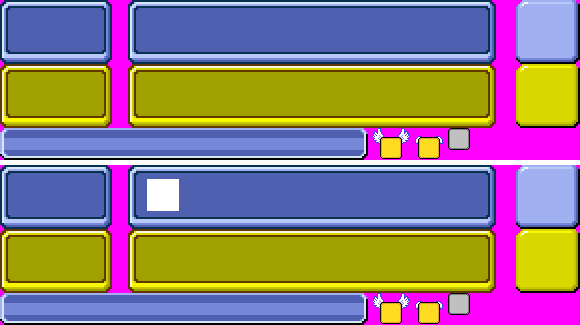
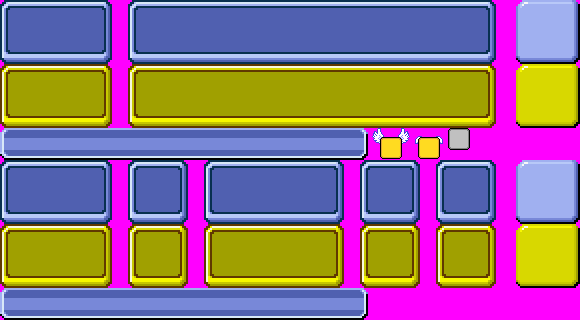
1) Fixed bug where backgroundmusic was using [6] which was out of bounds 2) Fixed bug where you could use a stored item inside a bonus house 3) Finished world scoreboard

diff --git a/_src/uicontrol.cpp b/_src/uicontrol.cpp
@@ -2957,16 +2957,18 @@ MI_TournamentScoreboard::MI_TournamentScoreboard(gfxSprite * spr_background, sho
 	sprBackground = spr_background;
 	fCreated = false;
 
+	worldScore = NULL;
+	worldScoreModifier = NULL;
+
 	for(short iTeam = 0; iTeam < 4; iTeam++)
 	{
 		tourScores[iTeam] = NULL;
 		
-		worldScoreModifier[iTeam] = NULL;
-
-		for(short iBonus = 0; iBonus < 5; iBonus++)
+		for(short iBonus = 0; iBonus < MAX_WORLD_BONUSES_AWARDED; iBonus++)
 			worldBonus[iTeam][iBonus] = NULL;
 
 		worldPlace[iTeam] = NULL;
+		worldPointsBackground[iTeam] = NULL;
 	}
 
 	for(short iGame = 0; iGame < 10; iGame++)
@@ -3016,7 +3018,7 @@ void MI_TournamentScoreboard::FreeScoreboard()
 			worldPlace[iTeam] = NULL;
 		}
 
-		for(short iBonus = 0; iBonus < 5; iBonus++)
+		for(short iBonus = 0; iBonus < MAX_WORLD_BONUSES_AWARDED; iBonus++)
 		{
 			if(worldBonus[iTeam][iBonus])
 			{
@@ -3025,10 +3027,10 @@ void MI_TournamentScoreboard::FreeScoreboard()
 			}
 		}
 
-		if(worldScoreModifier[iTeam])
+		if(worldPointsBackground[iTeam])
 		{
-			delete worldScoreModifier[iTeam];
-			worldScoreModifier[iTeam] = NULL;
+			delete worldPointsBackground[iTeam];
+			worldPointsBackground[iTeam] = NULL;
 		}
 	}
 
@@ -3052,8 +3054,19 @@ void MI_TournamentScoreboard::FreeScoreboard()
 		delete miTourPointBar;
 		miTourPointBar = NULL;
 	}
-	
 
+	if(worldScore)
+	{
+		delete worldScore;
+		worldScore = NULL;
+	}
+
+	if(worldScoreModifier)
+	{
+		delete worldScoreModifier;
+		worldScoreModifier = NULL;
+	}
+	
 	delete [] miPlayerImages;
 	delete [] miIconImages;
 }
@@ -3073,6 +3086,9 @@ void MI_TournamentScoreboard::Update()
 		{
 			miPlayerImages[iTeam][iPlayer]->Update();
 		}
+
+		if(worldPointsBackground[iTeam])
+			worldPointsBackground[iTeam]->Update();
 	}
 
 	if(game_values.matchtype == MATCH_TYPE_TOUR)
@@ -3179,15 +3195,22 @@ void MI_TournamentScoreboard::Draw()
 	{
 		for(short iTeam = 0; iTeam < iNumTeams; iTeam++)
 		{
+			worldPointsBackground[iTeam]->Draw();
+		}
+
+		for(short iTeam = 0; iTeam < iNumTeams; iTeam++)
+		{
 			tourScores[iTeam]->Draw();
-			worldScoreModifier[iTeam]->Draw();
 			worldPlace[iTeam]->Draw();
 
-			for(short iBonus = 0; iBonus < 5; iBonus++)
+			for(short iBonus = 0; iBonus < MAX_WORLD_BONUSES_AWARDED; iBonus++)
 			{
 				worldBonus[iTeam][iBonus]->Draw();
 			}
 		}
+
+		worldScoreModifier->Draw();
+		worldScore->Draw();
 	}
 }
 
@@ -3233,7 +3256,7 @@ void MI_TournamentScoreboard::CreateScoreboard(short numTeams, short numGames, g
 		if(fTour)
 			iTeamY += 28; //shift down 28 pxls for extra tour points bar
 
-		miTeamImages[iTeam] = new MI_Image(sprBackground, ix - (fNotTournament ? 40 : 0), iTeamY, 0, 0, fNotTournament ? 580 : 500, 64, 1, 2, 0);
+		miTeamImages[iTeam] = new MI_Image(sprBackground, ix - (fNotTournament ? 40 : 0), iTeamY, 0, game_values.matchtype == MATCH_TYPE_WORLD ? 160 : 0, fNotTournament ? 580 : 500, 64, 1, 2, 0);
 		miIconImages[iTeam] = new MI_Image * [iNumGames];
 		miPlayerImages[iTeam] = new MI_Image * [iTeamCounts[iTeam]];
 
@@ -3258,17 +3281,21 @@ void MI_TournamentScoreboard::CreateScoreboard(short numTeams, short numGames, g
 
 		if(game_values.matchtype == MATCH_TYPE_WORLD)
 		{
-			worldScoreModifier[iTeam] = new MI_Image(&spr_worlditems, ix + 400, iTeamY + 16, 0, 0, 32, 32, 1, 1, 0);
-			worldScoreModifier[iTeam]->Show(false);
+			worldPointsBackground[iTeam] = new MI_Image(sprBackground, ix + 476, iTeamY, 516, 160, 64, 64, 1, 2, 0);
+			worldPlace[iTeam] = new MI_Image(sprIcons, ix + 102, iTeamY + 14, 0, 0, 32, 32, 4, 1, 8);
 
-			worldPlace[iTeam] = new MI_Image(sprIcons, ix + 110, iTeamY + 16, 0, 0, 32, 32, 4, 1, 8);
-
-			for(short iBonus = 0; iBonus < 5; iBonus++)
+			for(short iBonus = 0; iBonus < MAX_WORLD_BONUSES_AWARDED; iBonus++)
 			{
-				worldBonus[iTeam][iBonus] = new MI_Image(&spr_worlditems, ix + 200 + 40 * iBonus, iTeamY + 16, 0, 0, 32, 32, 1, 1, 0);
+				worldBonus[iTeam][iBonus] = new MI_Image(&spr_worlditems, ix + 180 + 38 * iBonus, iTeamY + 14, 0, 0, 32, 32, 1, 1, 0);
 				worldBonus[iTeam][iBonus]->Show(false);
 			}
 		}
+	}
+
+	if(game_values.matchtype == MATCH_TYPE_WORLD)
+	{
+		worldScoreModifier = new MI_Image(&spr_worlditems, 0, 0, 0, 0, 32, 32, 1, 1, 0);
+		worldScore = new MI_ScoreText(0, 0);
 	}
 
 	if(fTour)
@@ -3297,6 +3324,8 @@ void MI_TournamentScoreboard::RefreshWorldScores(short gameWinner)
 	iGameWinner = gameWinner;
 	DetermineScoreboardWinners();
 
+	TourStop * tourStop = game_values.tourstops[game_values.tourstopcurrent];
+
 	for(short iTeam = 0; iTeam < iNumTeams; iTeam++)
 	{
 		short iTeamY = GetYFromPlace(game_values.tournament_scores[iTeam].wins);
@@ -3304,6 +3333,7 @@ void MI_TournamentScoreboard::RefreshWorldScores(short gameWinner)
 		float dSpacing = GetIconSpacing();
 
 		miTeamImages[iTeam]->SetPosition(ix - 40, iTeamY);
+		worldPointsBackground[iTeam]->SetPosition(ix + 476, iTeamY);
 
 		for(short iPlayer = 0; iPlayer < iTeamCounts[iTeam]; iPlayer++)
 		{
@@ -3313,17 +3343,37 @@ void MI_TournamentScoreboard::RefreshWorldScores(short gameWinner)
 		tourScores[iTeam]->SetPosition(ix + 508, iTeamY + 24);
 		tourScores[iTeam]->SetScore(game_values.tournament_scores[iTeam].total);
 
-		if(game_values.worldpointsbonus >= 0 && iGameWinner == game_values.tournament_scores[iTeam].wins)
+		if(iGameWinner == -1)
 		{
-			worldScoreModifier[iTeam]->Show(true);
-			worldScoreModifier[iTeam]->SetImage((game_values.worldpointsbonus + 9) << 5, 0, 32, 32);
+			worldScore->Show(false);
+			worldScoreModifier->Show(false);
+		}
+
+		if(iGameWinner == iTeam)
+		{
+			worldScore->SetPosition(ix + 350, iTeamY + 24);
+			worldScore->SetScore(tourStop->iPoints);
+			worldScore->Show(true);
+
+			miTeamImages[iTeam]->SetImage(0, 160, 496, 64);
+
+			if(game_values.worldpointsbonus >= 0)
+			{
+				worldScoreModifier->SetImage((game_values.worldpointsbonus + 9) << 5, 0, 32, 32);
+				worldScoreModifier->SetPosition(ix + 410, iTeamY + 14);
+				worldScoreModifier->Show(true);
+			}
+			else
+			{
+				worldScoreModifier->Show(false);
+			}
 		}
 		else
 		{
-			worldScoreModifier[iTeam]->Show(false);
+			miTeamImages[iTeam]->SetImage(0, 160, 344, 64);
 		}
 
-		worldPlace[iTeam]->SetPosition(ix + 110, iTeamY + 16);
+		worldPlace[iTeam]->SetPosition(ix + 102, iTeamY + 14);
 		worldPlace[iTeam]->SetImage(0, score[iTeam]->place << 5, 32, 32);
 		worldPlace[iTeam]->Show(gameWinner >= 0);
 	}
@@ -3332,7 +3382,6 @@ void MI_TournamentScoreboard::RefreshWorldScores(short gameWinner)
 	
 	if(gameWinner >= 0)
 	{
-		TourStop * tourStop = game_values.tourstops[game_values.tourstopcurrent];
 		for(short iBonus = 0; iBonus < tourStop->iNumBonuses; iBonus++)
 		{
 			WorldStageBonus * bonus = &tourStop->wsbBonuses[iBonus];
@@ -3345,22 +3394,23 @@ void MI_TournamentScoreboard::RefreshWorldScores(short gameWinner)
 					{
 						short iDisplayPosition = game_values.tournament_scores[iTeam].wins;
 
-						worldBonus[iDisplayPosition][iBonusCounts[iDisplayPosition]]->Show(true);
-						worldBonus[iDisplayPosition][iBonusCounts[iDisplayPosition]]->SetImageSource(bonus->iBonus < NUM_POWERUPS ? &spr_storedpoweruplarge : &spr_worlditems);
-						worldBonus[iDisplayPosition][iBonusCounts[iDisplayPosition]]->SetImage((bonus->iBonus < NUM_POWERUPS ? bonus->iBonus : bonus->iBonus - NUM_POWERUPS) << 5, 0, 32, 32);
+						if(iBonusCounts[iDisplayPosition] < MAX_WORLD_BONUSES_AWARDED)
+						{
+							worldBonus[iDisplayPosition][iBonusCounts[iDisplayPosition]]->Show(true);
+							worldBonus[iDisplayPosition][iBonusCounts[iDisplayPosition]]->SetImageSource(bonus->iBonus < NUM_POWERUPS ? &spr_storedpoweruplarge : &spr_worlditems);
+							worldBonus[iDisplayPosition][iBonusCounts[iDisplayPosition]]->SetImage((bonus->iBonus < NUM_POWERUPS ? bonus->iBonus : bonus->iBonus - NUM_POWERUPS) << 5, 0, 32, 32);
 
-						iBonusCounts[iDisplayPosition]++;
-
-						break;
+							iBonusCounts[iDisplayPosition]++;
+						}
 					}
-				}			
+				}
 			}
 		}
 	}
 
 	for(short iTeam = 0; iTeam < iNumTeams;  iTeam++)
 	{
-		for(short iBonus = iBonusCounts[iTeam]; iBonus < 5; iBonus++)
+		for(short iBonus = iBonusCounts[iTeam]; iBonus < MAX_WORLD_BONUSES_AWARDED; iBonus++)
 		{
 			worldBonus[iTeam][iBonus]->Show(false);
 		}
@@ -3449,7 +3499,10 @@ void MI_TournamentScoreboard::DetermineScoreboardWinners()
 
 		//Flash the background of the winning teams
 		for(short iTeam = 0; iTeam < iNumWinningTeams; iTeam++)
+		{
 			miTeamImages[iWinningTeams[iTeam]]->SetAnimationSpeed(20);
+			worldPointsBackground[iWinningTeams[iTeam]]->SetAnimationSpeed(20);
+		}
 	}
 }
 
@@ -3464,6 +3517,7 @@ void MI_TournamentScoreboard::RefreshTournamentScores(short gameWinner)
 	{
 		iTournamentWinner = iGameWinner;
 		miTeamImages[iTournamentWinner]->SetAnimationSpeed(20);
+		worldPointsBackground[iTournamentWinner]->SetAnimationSpeed(20);
 	}
 
 	for(short iTeam = 0; iTeam < iNumTeams; iTeam++)
@@ -4031,6 +4085,9 @@ MI_ScoreText::MI_ScoreText(short x, short y) :
 
 void MI_ScoreText::Draw()
 {
+	if(!fShow)
+		return;
+
 	spr_scoretext.draw(iDigitRightDstX, iy, iDigitRightSrcX, 0, 16, 16);
 	
 	if(iDigitLeftSrcX > 0)

diff --git a/_src/menu.cpp b/_src/menu.cpp
@@ -2321,7 +2321,7 @@ void Menu::RunMenu()
 			if(game_values.matchtype == MATCH_TYPE_SINGLE_GAME)
 				backgroundmusic[2].play(false, false);
 			else if(game_values.matchtype == MATCH_TYPE_WORLD)
-				backgroundmusic[6].play(false, false);
+				backgroundmusic[5].play(false, false);
 			else
 				backgroundmusic[3].play(false, false);
 		}
@@ -3272,8 +3272,8 @@ void Menu::RunMenu()
 			mCurrentMenu->ResetMenu();
 
 			backgroundmusic[2].stop();
-			backgroundmusic[6].load(worldmusiclist.GetMusic(g_worldmap.GetMusicCategory()));
-			backgroundmusic[6].play(false, false);
+			backgroundmusic[5].load(worldmusiclist.GetMusic(g_worldmap.GetMusicCategory()));
+			backgroundmusic[5].play(false, false);
 			fNeedMenuMusicReset = true;
 		}
 

diff --git a/_src/player.cpp b/_src/player.cpp
@@ -1323,7 +1323,7 @@ void CPlayer::move()
 		}
 		
 		//POWERUP RELEASE
-		if(playerKeys->game_powerup.fDown && (!game_values.slowdownfreeze || game_values.slowdownon == teamID) && statue_timer == 0)
+		if(playerKeys->game_powerup.fDown && (!game_values.slowdownfreeze || game_values.slowdownon == teamID) && statue_timer == 0 && game_values.gamemode->gamemode != game_mode_bonus)
 		{
 			if(game_values.gamepowerups[globalID] > -1)
 			{

diff --git a/_src/uicontrol.h b/_src/uicontrol.h
@@ -778,9 +778,11 @@ class MI_TournamentScoreboard : public UI_Control
 		MI_Image * miTourPointBar;
 		MI_Image * tourBonus[10];
 
-		MI_Image * worldBonus[4][5];
-		MI_Image * worldScoreModifier[4];
+		MI_Image * worldBonus[4][MAX_WORLD_BONUSES_AWARDED];
+		MI_Image * worldScoreModifier;
 		MI_Image * worldPlace[4];
+		MI_ScoreText * worldScore;
+		MI_Image * worldPointsBackground[4];
 };
 
 class MI_BonusWheel : public UI_Control

diff --git a/_src/map.cpp b/_src/map.cpp
@@ -2799,8 +2799,9 @@ void CMap::ReadString(char * szString, short size, FILE * outFile)
 
 	char * szReadString = new char[iLen];
 	fread(szReadString, sizeof(char), iLen, outFile);
+	szReadString[iLen - 1] = 0;
 
-	//Prevent buffer overflow
+	//Prevent buffer overflow  5253784 5253928
 	strncpy(szString, szReadString, size - 1);
 	szString[size - 1] = 0;
 

diff --git a/_src/sfx.cpp b/_src/sfx.cpp
@@ -184,7 +184,7 @@ bool sfxMusic::load(const string& filename)
 	if(music)
 		reset();
 
-    cout << "load "<< filename<< "..."<< endl;
+    cout << "load " << filename << "..." << endl;
 	music = Mix_LoadMUS(filename.c_str());
 	
 	if(!music)

diff --git a/_src/global.h b/_src/global.h
@@ -127,6 +127,7 @@ struct STextAward
 #define MAX_PLAYER_SPAWN_TRIES 16
 
 #define	MAX_BONUS_CHESTS	5
+#define MAX_WORLD_BONUSES_AWARDED 3
 
 #define TILESETSIZE		960			//30*32 Tiles by 32 pixel in a 1024*1024 bmp
 #define TILESETHEIGHT   30
